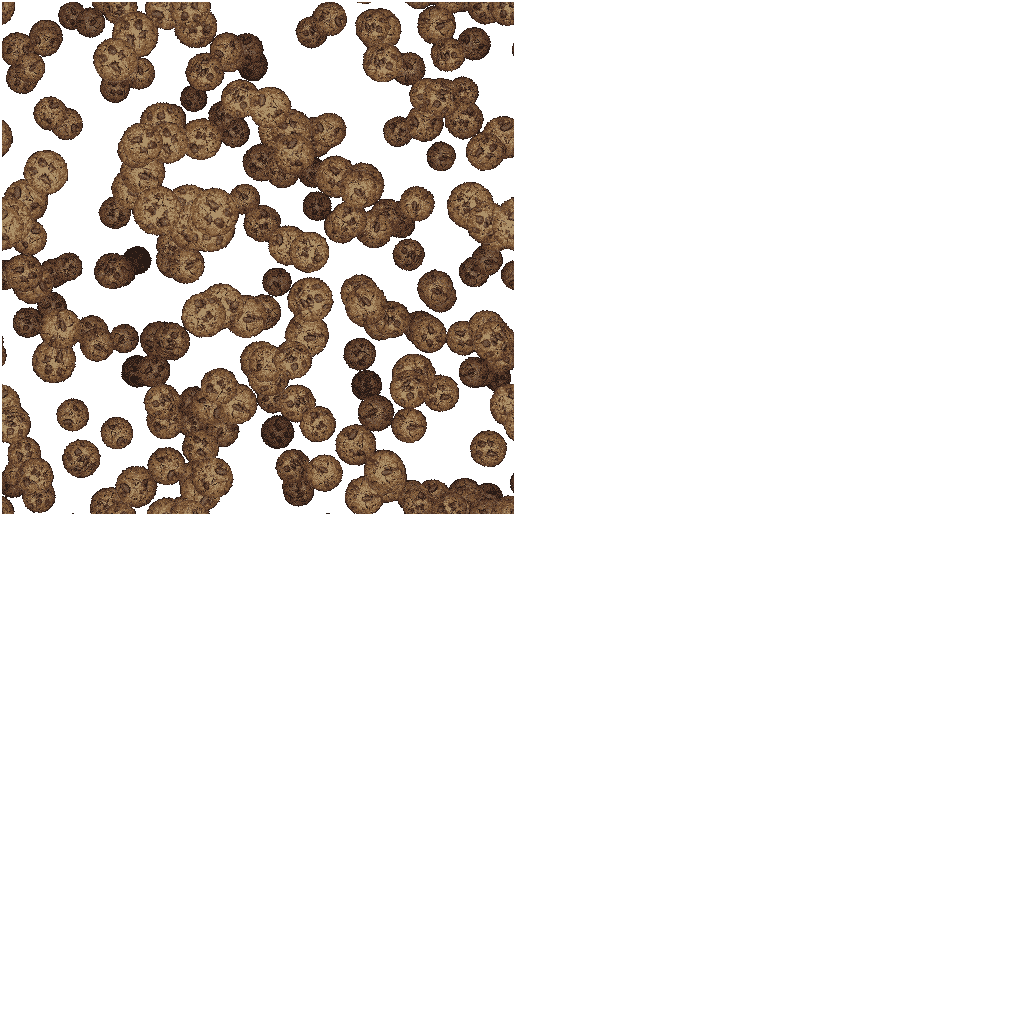
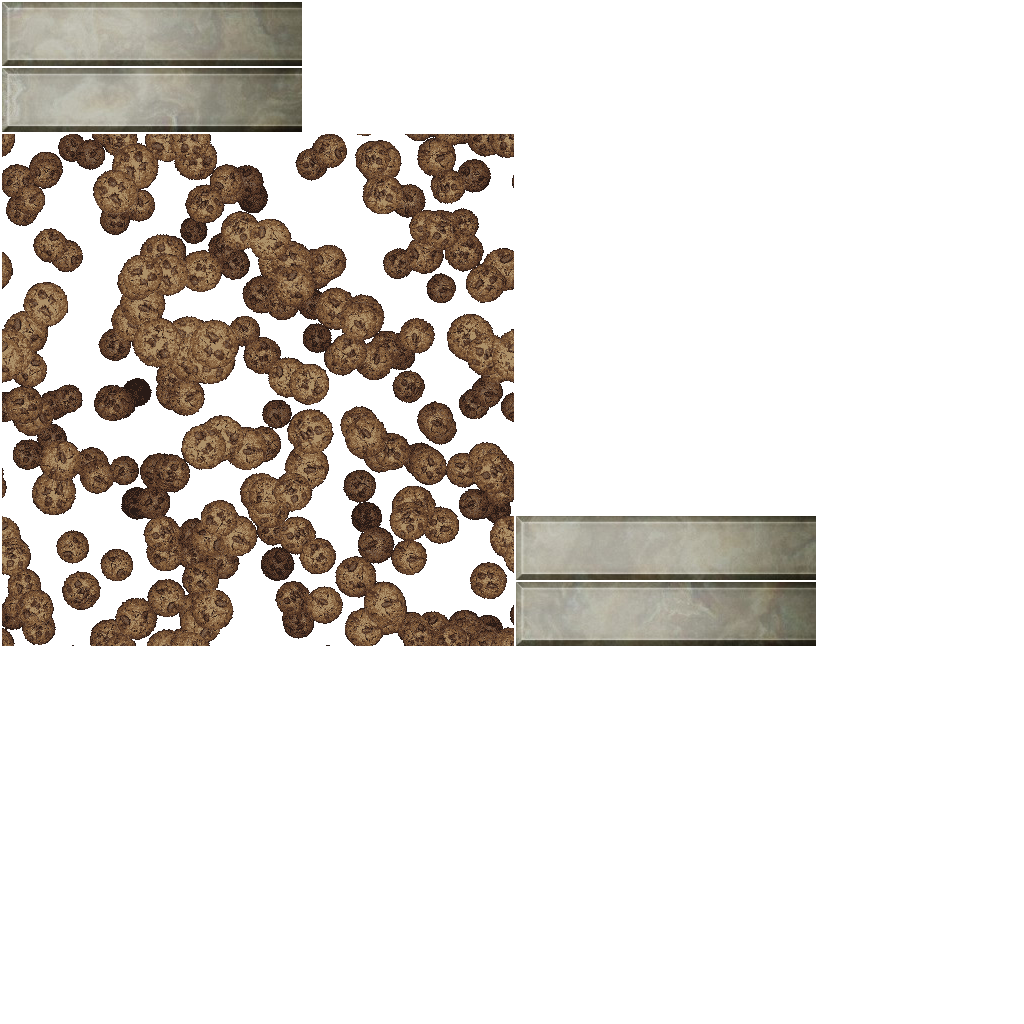
different backgrounds for building buttons

Changed region(s): [[0.0, 0.0, 0.8125, 0.6562]]

diff --git a/cookies/src/main/java/com/github/maximtereshchenko/games/cookies/screen/view/store/BuildingPanel.java b/cookies/src/main/java/com/github/maximtereshchenko/games/cookies/screen/view/store/BuildingPanel.java
@@ -15,12 +15,14 @@ final class BuildingPanel extends Table {
         EventListener eventListener,
         BakeryService bakeryService
     ) {
-        for (var building : Building.values()) {
+        var buildings = Building.values();
+        for (var i = 0; i < buildings.length; i++) {
             var buildingButton = new BuildingButton(
                 skin,
                 bundle,
                 bakeryService,
-                building
+                buildings[i],
+                i
             );
             buildingButton.addListener(eventListener);
             add(buildingButton).row();

diff --git a/cookies/src/main/java/com/github/maximtereshchenko/games/cookies/screen/view/store/BuildingButton.java b/cookies/src/main/java/com/github/maximtereshchenko/games/cookies/screen/view/store/BuildingButton.java
@@ -20,9 +20,13 @@ final class BuildingButton extends Button {
         Skin skin,
         I18NBundle bundle,
         BakeryService bakeryService,
-        Building building
+        Building building,
+        int index
     ) {
-        var buttonStyle = skin.get(Style.class);
+        var buttonStyle = skin.get(
+            String.valueOf(index % 4),
+            Style.class
+        );
         super(buttonStyle);
         this.style = buttonStyle;
         this.bakeryService = bakeryService;
